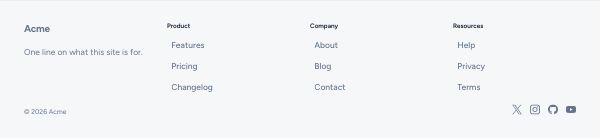
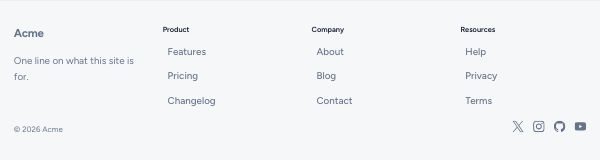
fix(regions): page picker finds the root-mounted type; header and footer templates shown whole
The Header & footer page asked for entries of a type called page, which a new
install doesn't have (it seeds pages): a 404, and only the homepage offered.
It now lists the type that mounts at the site root, and asks for nothing
without one.

Header and footer templates were cropped into tall page-shaped cards. They
are shown whole and full width like sections, and captured at 1040px so the
same 600px picture shows them larger.

diff --git a/admin/src/__tests__/regionsPage.spec.ts b/admin/src/__tests__/regionsPage.spec.ts
@@ -1,7 +1,7 @@
 import { describe, it, expect, vi, beforeAll, beforeEach } from 'vitest'
 import { mount, flushPromises } from '@vue/test-utils'
 import { createPinia, setActivePinia } from 'pinia'
-import { ref } from 'vue'
+import { ref, toValue, type MaybeRefOrGetter } from 'vue'
 import type { RegionData, RegionSession } from '@/queries/regions'
 import type { BlockType } from '@/queries/blockTypes'
 import { classEditorSchema } from './helpers/classEditorSchema'
@@ -18,9 +18,18 @@ vi.mock('@/queries/regions', () => ({
   applyRegions: q.apply,
   saveRegions: q.save,
 }))
+const entriesQuery = vi.hoisted(() => ({ calls: [] as unknown[][] }))
 vi.mock('@/queries/entries', async (importOriginal) => ({
   ...(await importOriginal<typeof import('@/queries/entries')>()),
-  useEntries: () => ({ data: ref({ entries: [], total: 0, current_page: 1, per_page: 100 }) }),
+  useEntries: (...args: unknown[]) => {
+    entriesQuery.calls.push(args)
+    return { data: ref({ entries: [], total: 0, current_page: 1, per_page: 100 }) }
+  },
+}))
+const contentTypes = ref<{ slug: string; name: string; mount_at_root: boolean }[]>([])
+vi.mock('@/queries/contentTypes', async (importOriginal) => ({
+  ...(await importOriginal<typeof import('@/queries/contentTypes')>()),
+  useContentTypes: () => ({ data: contentTypes }),
 }))
 
 const bt = (slug: string, schema: unknown[] = []): BlockType =>
@@ -228,6 +237,11 @@ beforeEach(() => {
   }))
   q.save.mockReset()
   leaveGuard.fn = null
+  entriesQuery.calls = []
+  contentTypes.value = [
+    { slug: 'post', name: 'Posts', mount_at_root: false },
+    { slug: 'pages', name: 'Pages', mount_at_root: true },
+  ]
   localStorage.clear()
   localStorage.setItem('thallo.canvas.auto_apply', '0')
 })
@@ -288,6 +302,23 @@ describe('the Header & footer page on the stage', () => {
     await flushPromises()
     expect(sticky().attributes('aria-checked')).toBe('false')
     w.unmount()
+  })
+
+  it('the page picker lists the type whose entries live at the site root, whatever its slug', async () => {
+    const w = mountPage()
+    await flushPromises()
+    const [type, , , , enabled] = entriesQuery.calls[0]!
+    expect(toValue(type as MaybeRefOrGetter<string>)).toBe('pages')
+    expect(toValue(enabled as MaybeRefOrGetter<boolean>)).toBe(true)
+    w.unmount()
+
+    // No such type: nothing is asked for, and the picker offers the homepage alone.
+    contentTypes.value = [{ slug: 'post', name: 'Posts', mount_at_root: false }]
+    entriesQuery.calls = []
+    const bare = mountPage()
+    await flushPromises()
+    expect(toValue(entriesQuery.calls[0]![4] as MaybeRefOrGetter<boolean>)).toBe(false)
+    bare.unmount()
   })
 
   it('says so when the picked page hides a region', async () => {

diff --git a/admin/src/editor/palette/BlocksPalette.vue b/admin/src/editor/palette/BlocksPalette.vue
@@ -106,6 +106,9 @@ function patternReason(p: Pattern): string | undefined {
       : props.clickable(patternKey(p.slug))
   return verdict.ok ? undefined : verdict.message
 }
+/** A page template is shown as its first screens, in a tall card; a header or footer template is
+ *  short and wide, so it is shown whole and full width, as a section is. */
+const isTall = (p: Pattern): boolean => p.kind === 'page' && p.scope !== 'region'
 // A thumbnail that does not load gives way to a plain card, never a broken image.
 const missingThumbs = reactive(new Set<string>())
 
@@ -234,7 +237,7 @@ function onTilePointerDown(slug: string, event: PointerEvent): void {
         >
           {{ group.category }}
         </h4>
-        <div class="grid gap-2" :class="view === 'pages' ? 'grid-cols-2' : 'grid-cols-1'">
+        <div class="grid gap-2" :class="group.items.every(isTall) ? 'grid-cols-2' : 'grid-cols-1'">
           <div
             v-for="p in group.items"
             :key="p.slug"
@@ -269,7 +272,7 @@ function onTilePointerDown(slug: string, event: PointerEvent): void {
               <span
                 v-else
                 class="block w-full overflow-hidden border-b border-default bg-white"
-                :class="view === 'pages' ? 'aspect-[3/4]' : 'max-h-44'"
+                :class="isTall(p) ? 'aspect-[3/4]' : 'max-h-44'"
               >
                 <img
                   v-if="!missingThumbs.has(p.slug)"
@@ -281,7 +284,7 @@ function onTilePointerDown(slug: string, event: PointerEvent): void {
                   decoding="async"
                   draggable="false"
                   class="pointer-events-none block h-auto w-full"
-                  :class="view === 'pages' ? 'h-full object-cover object-top' : ''"
+                  :class="isTall(p) ? 'h-full object-cover object-top' : ''"
                   @error="missingThumbs.add(p.slug)"
                 />
                 <span

diff --git a/admin/src/pages/regions/index.vue b/admin/src/pages/regions/index.vue
@@ -2,6 +2,7 @@
 import { computed, onBeforeUnmount, ref, watch } from 'vue'
 import { useRegions } from '@/queries/regions'
 import { useEntries } from '@/queries/entries'
+import { useContentTypes } from '@/queries/contentTypes'
 import { belongsIn, type SectionPlace } from '@/queries/patterns'
 import type { BlockInstance } from '@/fields/components/blocks/useBlockListOps'
 import type { DropZone } from '@/editor/structure/coordinator'
@@ -194,9 +195,19 @@ const regionCapabilities = computed(
 /** The Outline shows the current region's tree. */
 const outlineSchema = computed(() => schema.value.filter((f) => f.name === currentRegion.value))
 
-// ── The page picker (spec §3): published pages, the homepage by default. ──
+// ── The page picker (spec §3): published pages, the homepage by default. The pages are the
+// entries of the type that lives at the site root (`/{slug}`) — `pages` on a new install, but a
+// site may name it anything; with no such type the homepage is the only choice. ──
 const HOME = '@home'
-const { data: pageRows } = useEntries('page', 1, 100, undefined)
+const { data: contentTypes } = useContentTypes()
+const pageType = computed(() => contentTypes.value?.find((t) => t.mount_at_root)?.slug ?? null)
+const { data: pageRows } = useEntries(
+  () => pageType.value ?? '',
+  1,
+  100,
+  undefined,
+  () => pageType.value !== null,
+)
 const pageOptions = computed(() => [
   { label: 'Homepage', value: HOME },
   ...(pageRows.value?.entries ?? [])

diff --git a/admin/src/__tests__/saved-sections.spec.ts b/admin/src/__tests__/saved-sections.spec.ts
@@ -117,6 +117,22 @@ describe('saved sections in the Blocks tab', () => {
     expect(w.text()).toContain('No templates match.')
   })
 
+  it('a header or footer template is shown whole and full width, not cropped like a page', async () => {
+    const w = palette({
+      patterns: [
+        pattern('page-landing', { kind: 'page', scope: 'page' }),
+        pattern('header-classic', { kind: 'page', scope: 'region', region: 'header' }),
+      ],
+    })
+    await w.find('[data-test="palette-view-pages"]').trigger('click')
+    const frame = (slug: string) => w.find(`[data-test="pattern-card-${slug}"] > span`)
+    expect(frame('page-landing').classes()).toContain('aspect-[3/4]')
+    expect(frame('header-classic').classes()).not.toContain('aspect-[3/4]')
+    expect(w.find('[data-test="pattern-card-header-classic"] img').classes()).not.toContain(
+      'object-cover',
+    )
+  })
+
   it('where no template can be inserted, there is no Templates view', () => {
     const w = palette({ pageClickable: undefined })
     expect(w.find('[data-test="palette-view-sections"]').exists()).toBe(true)

diff --git a/admin/src/queries/entries.ts b/admin/src/queries/entries.ts
@@ -52,8 +52,11 @@ export function useEntries(
   page: MaybeRefOrGetter<number>,
   perPage: MaybeRefOrGetter<number>,
   q: MaybeRefOrGetter<string | undefined>,
+  /** False holds the request back (there is no type to ask about yet). */
+  enabled: MaybeRefOrGetter<boolean> = true,
 ) {
   return useQuery({
+    enabled: () => toValue(enabled),
     // page, perPage and q all identify a page of results, so each is part of the key: a cached
     // page is only reused for the same slice, and changing any of them refetches.
     key: () => [...qk.entries(toValue(type)), toValue(page), toValue(perPage), toValue(q) ?? ''],

diff --git a/CHANGELOG.md b/CHANGELOG.md
@@ -7,6 +7,15 @@ as the next release, never a mutated tag.
 
 ## [Unreleased]
 
+### Fixed
+- **The Header & footer page's page picker works on a standard install.** It asked for entries
+  of a content type called `page`, which a new install doesn't have (it seeds `pages`), so the
+  request failed and only the homepage was offered. It now lists the type whose entries live at the
+  site root, whatever its slug, and asks for nothing when there is none.
+- **Header and footer templates show as headers and footers.** Their pictures were cropped into
+  tall page-shaped cards, leaving a blur or a blank. They are now shown whole and full width, as
+  sections are, and drawn larger.
+
 ## [1.0.0-beta.64] - 2026-09-26 — Developer Preview
 
 Your own sections, saved from the stage and reused as copies; a header and footer library of its
